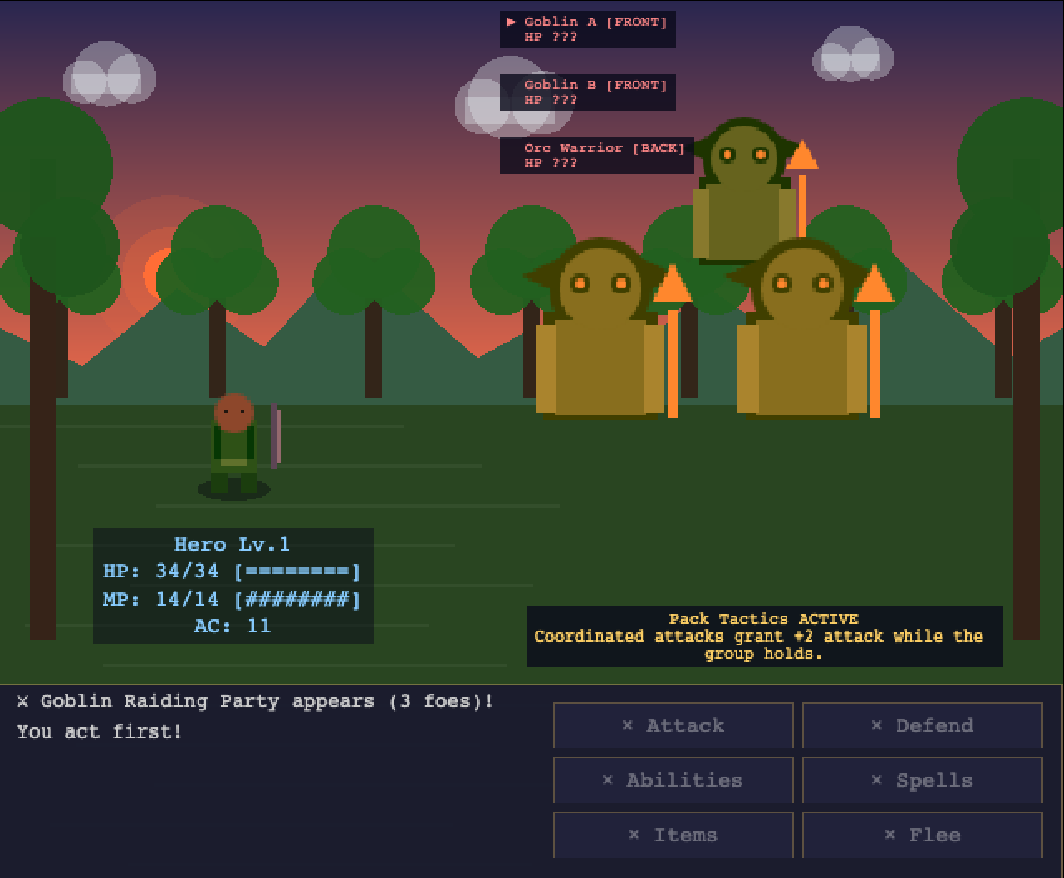
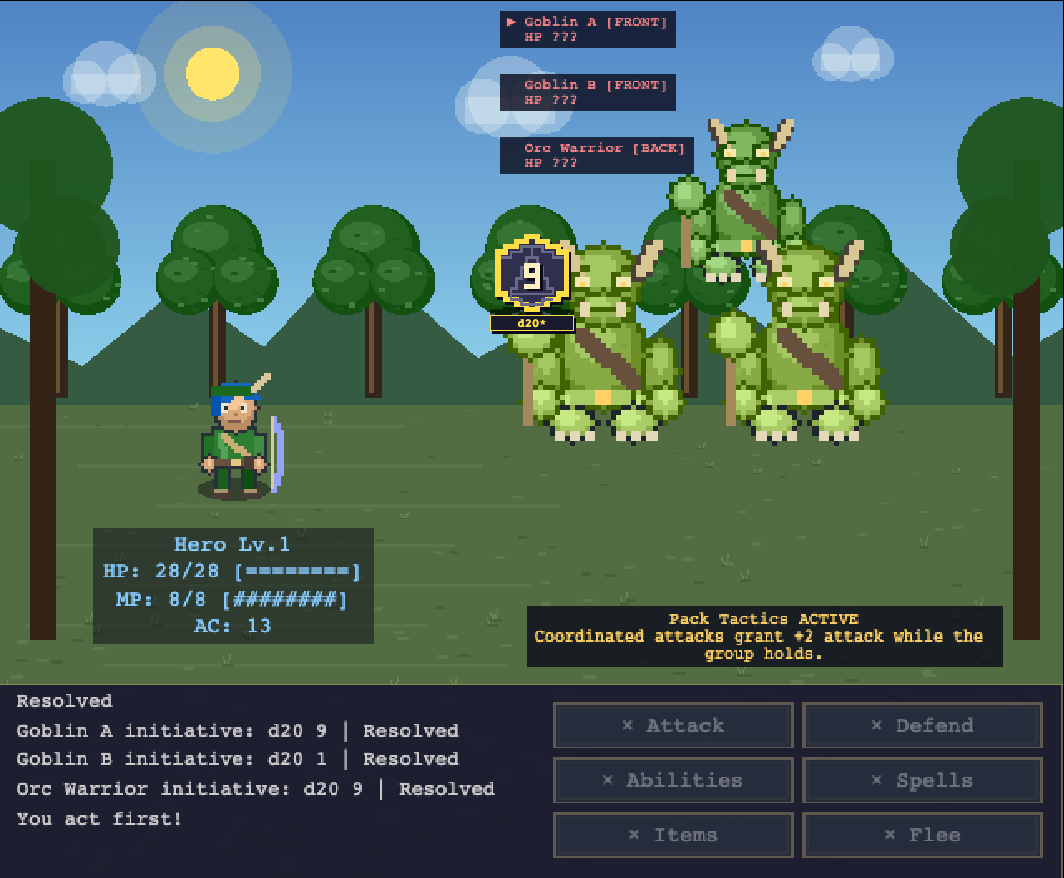
Polish creature scenery and capture real graphics references

diff --git a/src/renderers/battleBackdrop.ts b/src/renderers/battleBackdrop.ts
@@ -6,6 +6,7 @@ import {
   TimePeriod,
 } from "../systems/daynight";
 import { isReducedMotionEnabled } from "../systems/accessibility";
+import { artNoise, shadePixelColor } from "../systems/pixelArt";
 import { WeatherType } from "../systems/weather";
 import { isLocalDev } from "../config";
 import { drawBattleTerrainDetail } from "./battleTerrain";
@@ -487,11 +488,27 @@ export class BattleBackdropRenderer {
         const x = 36 + index * (layout.width - 72) / 6;
         graphics.fillStyle(trunk, 1);
         graphics.fillRect(x - 5, layout.horizonY - 72, 10, 84);
+        graphics.fillStyle(0x6a5132, 1);
+        graphics.fillRect(x - 3, layout.horizonY - 68, 3, 77);
         if (biome !== "swamp") {
-          graphics.fillStyle(leaves, 0.95);
-          graphics.fillCircle(x, layout.horizonY - 76, 28);
-          graphics.fillCircle(x - 17, layout.horizonY - 58, 20);
-          graphics.fillCircle(x + 17, layout.horizonY - 58, 20);
+          const canopies = [
+            [x, layout.horizonY - 76, 28],
+            [x - 17, layout.horizonY - 58, 20],
+            [x + 17, layout.horizonY - 58, 20],
+          ] as const;
+          for (const [cx, cy, radius] of canopies) {
+            graphics.fillStyle(shadePixelColor(leaves, -15), 1).fillCircle(cx, cy, radius);
+            graphics.fillStyle(leaves, 1).fillCircle(cx - 2, cy - 3, radius - 3);
+            graphics.fillStyle(shadePixelColor(leaves, 20), 1)
+              .fillEllipse(cx - radius / 4, cy - radius / 3, radius, radius * 0.65);
+            for (let leaf = 0; leaf < 14; leaf++) {
+              const dx = artNoise(index, leaf) % (radius * 2 - 6) - radius + 3;
+              const dy = artNoise(leaf, index) % (radius * 2 - 6) - radius + 3;
+              if (dx * dx + dy * dy > (radius - 3) ** 2) continue;
+              graphics.fillStyle(shadePixelColor(leaves, leaf % 2 ? 32 : -7), 1)
+                .fillRect(cx + dx, cy + dy, 4, 2);
+            }
+          }
         } else {
           graphics.lineStyle(4, trunk, 1);
           graphics.lineBetween(x, layout.horizonY - 52, x - 18, layout.horizonY - 72);

diff --git a/src/systems/monsterArt.ts b/src/systems/monsterArt.ts
@@ -138,15 +138,32 @@ function manymaws(painter: CreaturePainter, blink: boolean, tentacles: boolean, 
   if (tentacles) {
     for (let i = 0; i < 8; i++) {
       const direction = i % 2 ? 1 : -1;
-      const endX = x + direction * (10 + i);
-      art.line(x, y - 12, endX, y - 4 - (i % 3) * 4, p.outline, 5);
-      art.line(endX, y - 4 - (i % 3) * 4, endX + direction * 5, y - 10 - i * 2, p.primary, 3);
-      art.line(x, y - 12, endX, y - 4 - (i % 3) * 4, p.primary, 3);
-      for (let dot = 0; dot < 4; dot++) art.pixel(x + direction * (4 + dot * 3), y - 11 + dot, p.secondary);
+      const row = Math.floor(i / 2);
+      const lift = attacking ? 5 + row : 0;
+      const points = [
+        { x: x + direction * 3, y: y - 12 },
+        { x: x + direction * (10 + row), y: y - 5 + row % 2 * 2 },
+        { x: x + direction * (19 - row), y: y - 3 - row * 4 - lift },
+        { x: x + direction * (21 - row), y: y - 11 - row * 4 - lift },
+        { x: x + direction * (17 - row), y: y - 14 - row * 4 - lift },
+      ];
+      for (let segment = 0; segment < points.length - 1; segment++) {
+        const from = points[segment]!;
+        const to = points[segment + 1]!;
+        const width = Math.max(2, 5 - segment);
+        art.line(from.x - 1, from.y - 1, to.x - 1, to.y - 1, p.outline, width + 2);
+        art.line(from.x, from.y, to.x, to.y, p.primary, width);
+        art.line(from.x, from.y, to.x, to.y, shade(p.primary, 38), 1);
+        if (segment > 0) art.rect(to.x, to.y + 2, 2, 1, p.secondary);
+      }
     }
     art.volume(x, y - 24, 11, 14, p.primary, p.outline);
+    for (const offset of [-5, 0, 5]) {
+      art.line(x + offset, y - 35, x + offset - 1, y - 26, shade(p.primary, 35));
+      art.pixel(x + offset - 2, y - 33, shade(p.primary, 55));
+    }
     eyes(painter, x, y - 20, blink, 7);
-    art.volume(x, y - 14, 3, 3, p.outline, p.secondary);
+    art.volume(x, y - 14, attacking ? 4 : 3, attacking ? 5 : 3, p.outline, p.secondary);
     return;
   }
   art.line(x + 10, y - 8, x + 20, y - 14, p.outline, 5);

diff --git a/src/renderers/hud.ts b/src/renderers/hud.ts
@@ -51,7 +51,9 @@ export class HUDRenderer {
     this.group = createOverlayContainer(this.scene, "exploration-minimap", 19, {
       x: 0, y: 0, width: this.scene.cameras.main.width, height: this.scene.cameras.main.height,
     }).setVisible(false);
-    this.graphics = this.scene.add.graphics();
+    this.graphics = this.scene.add.graphics()
+      .setData("layoutId", "minimap-panel")
+      .setData("layoutAllowOverlapWith", ["minimap-caption"]);
     this.title = this.scene.add.text(0, 0, "MINIMAP", {
       fontFamily: "monospace", fontSize: "9px", color: "#e7d7af",
     }).setOrigin(0.5, 0).setData("layoutId", "minimap-caption");
@@ -116,6 +118,7 @@ export class HUDRenderer {
     const key = JSON.stringify([plan, bounds, contrast]);
     if (key === this.lastKey) return;
     this.lastKey = key;
+    this.graphics.setData("layoutBounds", bounds);
     const graphics = this.graphics.clear();
     const cx = bounds.x + bounds.width / 2;
     const radius = Math.min(41, (bounds.height - 33) / 2, (bounds.width - 10) / 2);

diff --git a/e2e/graphics-overhaul.spec.ts b/e2e/graphics-overhaul.spec.ts
@@ -94,6 +94,7 @@ for (const textScale of [1, 1.25, 1.5] as const) {
         await expect(page.locator("#debug-state")).toContainText("Fade: ready");
         await expect(page.locator("#exploration-minimap-summary")).toHaveAttribute("aria-label", /North-up exploration minimap/);
         await expect(page.locator("#exploration-minimap-summary")).not.toHaveAttribute("hidden", "");
+        await expect(page.locator("#layout-report")).toContainText("minimap-panel");
         await expectCleanLayout(page);
         await capture(page, `${scene.name}-${textScale * 100}`);
         errors.push(...sceneErrors);

diff --git a/e2e/battle-backdrop.spec.ts b/e2e/battle-backdrop.spec.ts
@@ -155,11 +155,8 @@ async function expectCanvasSnapshot(
   page: Page,
   name: string,
 ): Promise<void> {
-  const base64 = await page.locator("#game-container canvas").evaluate(
-    (canvas) => (canvas as HTMLCanvasElement).toDataURL("image/png").split(",")[1],
-  );
-  if (!base64) throw new Error("Battle canvas did not produce a PNG");
-  expect(Buffer.from(base64, "base64")).toMatchSnapshot(name, {
+  await expect(page.locator("#game-container canvas")).toHaveScreenshot(name, {
+    animations: "disabled",
     maxDiffPixelRatio: 0.05,
   });
 }

diff --git a/tests/monsterArt.test.ts b/tests/monsterArt.test.ts
@@ -29,4 +29,10 @@ describe("defined procedural creature families", () => {
     expect(rng).not.toHaveBeenCalled();
     rng.mockRestore();
   });
+
+  it("raises curved tentacles and opens the beak for a Kraken strike", () => {
+    const monster = ALL_MONSTERS.find((entry) => entry.anatomy === "tentacled")!;
+    expect(createMonsterArt(monster, "strike").pixels).not.toEqual(createMonsterArt(monster, "idle").pixels);
+    expect(createMonsterArt(monster, "cast").pixels).not.toEqual(createMonsterArt(monster, "idle").pixels);
+  });
 });

diff --git a/.github/skills/dnd-mechanics/SKILL.md b/.github/skills/dnd-mechanics/SKILL.md
@@ -52,6 +52,12 @@ starting-class/registry-order ties; appearance is not progression authority.
 Abilities use their explicit stat key. Main weapon attacks retain STR/finesse
 rules; the compatible off-hand fallback uses the fixed starting primary stat.
 
+Rare interior manuscripts use canonical study sources with declared base-class
+ranks and a casting stat. Persist their finite study tokens, not a legacy
+exception or unrestricted spell grant. Recognized study knowledge survives
+normalization and NG+; prestige/epic-only grants still require owned profiles.
+See [`docs/graphics.md`](../../../docs/graphics.md).
+
 Hero multiclass rules live in `src/data/classProgression.ts` and
 `src/systems/classProgression.ts`; normalization is in `classProgressionState.ts`.
 Keep normal total level at 20, creation one-class and companions single-class.

diff --git a/docs/testing.md b/docs/testing.md
@@ -100,6 +100,8 @@ supplies and repeat/reload recovery, and visits every monster family. It
 asserts that exact die faces stay hidden until a real throw stops or is skipped.
 Pure raster, footprint, guarded claim/study and minimap-redaction suites keep
 Phaser and gameplay RNG out of the corresponding mechanics.
+Battle canvas references use compositor screenshots rather than WebGL
+`toDataURL()` reads, which can return a discarded, entirely black back buffer.
 
 The `e2e/*.spec.ts` suites own real browser behavior:
 
